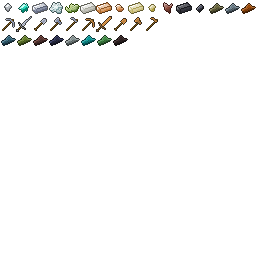
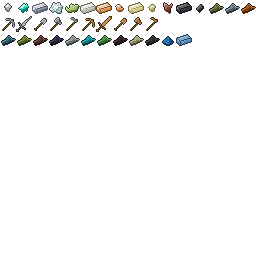
Retextured the Alloy Inductor and added a new light-producing Nether material.

Changed region(s): [[0.5, 0.125, 0.75, 0.1875]]

diff --git a/source/com/voidzm/supercraft/util/EssentialReducerRecipes.java b/source/com/voidzm/supercraft/util/EssentialReducerRecipes.java
@@ -12,7 +12,7 @@ import com.voidzm.supercraft.handler.ItemHandler;
 public class EssentialReducerRecipes {
 
 	public enum EssentialAspect {
-		TERRAEN(0), AERONIC(1), INFERNAL(2), AQUAEOUS(3), VERDEAL(4), NETHEREAL(5), DRACONIC(6), FERRIC(7), RADANTIS(8), VIDALIS(9), MORTALIC(10);
+		TERRAEN(0), AERONIC(1), INFERNAL(2), AQUAEOUS(3), VERDEAL(4), NETHEREAL(5), DRACONIC(6), FERRIC(7), RADANTIS(8), VIDALIS(9), MORTALIC(10), LUXORUM(11), TENEBRA(12);
 		public int index;
 		private EssentialAspect(int var1) {
 			this.index = var1;
@@ -43,7 +43,7 @@ public class EssentialReducerRecipes {
 		inputMappings.add(new EssentialReducerInputMap(new ItemStack(Item.clay), EssentialAspect.TERRAEN, EssentialAspect.VERDEAL));
 		inputMappings.add(new EssentialReducerInputMap(new ItemStack(Item.reed), EssentialAspect.VIDALIS, EssentialAspect.VERDEAL));
 		inputMappings.add(new EssentialReducerInputMap(new ItemStack(Item.egg), EssentialAspect.VERDEAL, EssentialAspect.VIDALIS));
-		inputMappings.add(new EssentialReducerInputMap(new ItemStack(Item.lightStoneDust), EssentialAspect.NETHEREAL, EssentialAspect.RADANTIS));
+		inputMappings.add(new EssentialReducerInputMap(new ItemStack(Item.lightStoneDust), EssentialAspect.LUXORUM, EssentialAspect.NETHEREAL));
 		inputMappings.add(new EssentialReducerInputMap(new ItemStack(Item.sugar), EssentialAspect.VERDEAL, EssentialAspect.VIDALIS));
 		inputMappings.add(new EssentialReducerInputMap(new ItemStack(Item.pumpkinSeeds), EssentialAspect.VIDALIS, EssentialAspect.VERDEAL));
 		inputMappings.add(new EssentialReducerInputMap(new ItemStack(Item.melonSeeds), EssentialAspect.VIDALIS, EssentialAspect.VERDEAL));
@@ -62,8 +62,8 @@ public class EssentialReducerRecipes {
 		inputMappings.add(new EssentialReducerInputMap(new ItemStack(ItemHandler.electrumIngot), EssentialAspect.FERRIC, EssentialAspect.TERRAEN));
 		inputMappings.add(new EssentialReducerInputMap(new ItemStack(ItemHandler.electrumBit), EssentialAspect.FERRIC, EssentialAspect.TERRAEN));
 		inputMappings.add(new EssentialReducerInputMap(new ItemStack(ItemHandler.bloodAmber), EssentialAspect.MORTALIC, EssentialAspect.VERDEAL));
-		inputMappings.add(new EssentialReducerInputMap(new ItemStack(ItemHandler.nisilIngot), EssentialAspect.MORTALIC, EssentialAspect.TERRAEN));
-		inputMappings.add(new EssentialReducerInputMap(new ItemStack(ItemHandler.nisilShard), EssentialAspect.MORTALIC, EssentialAspect.TERRAEN));
+		inputMappings.add(new EssentialReducerInputMap(new ItemStack(ItemHandler.nisilIngot), EssentialAspect.TENEBRA, EssentialAspect.TERRAEN));
+		inputMappings.add(new EssentialReducerInputMap(new ItemStack(ItemHandler.nisilShard), EssentialAspect.TENEBRA, EssentialAspect.TERRAEN));
 		inputMappings.add(new EssentialReducerInputMap(new ItemStack(Item.redstone), EssentialAspect.RADANTIS, EssentialAspect.TERRAEN));
 		inputMappings.add(new EssentialReducerInputMap(new ItemStack(Item.snowball), EssentialAspect.VERDEAL, EssentialAspect.AERONIC));
 		inputMappings.add(new EssentialReducerInputMap(new ItemStack(Item.paper), EssentialAspect.VERDEAL, EssentialAspect.AERONIC));

diff --git a/source/com/voidzm/supercraft/handler/BlockHandler.java b/source/com/voidzm/supercraft/handler/BlockHandler.java
@@ -112,6 +112,9 @@ public class BlockHandler {
 	public static Block radiantSolarGenerator;
 	public static Block alloyInductor;
 	
+	public static Block cobaltOre;
+	public static Block cobaltTorch;
+	
 	public void populateAllAndInitialize() {
 		this.createBlocks();
 		this.populateLanguage();
@@ -277,6 +280,11 @@ public class BlockHandler {
 		languageHandler.add(radiantSolarGenerator, "Radiant Solar Generator");
 		languageHandler.add(alloyInductor, "Alloy Inductor");
 		
+		// Cobalt
+		
+		languageHandler.add(cobaltOre, "Cobalt Ore");
+		languageHandler.add(cobaltTorch, "Cobalt Torch");
+		
 	}
 	
 	private void createBlocks() {
@@ -394,6 +402,11 @@ public class BlockHandler {
 		radiantSolarGenerator = new BlockRadiantSolarGenerator(1659);
 		alloyInductor = new BlockAlloyInductor(1660);
 		
+		// Cobalt
+		
+		cobaltOre = new BlockCobaltOre(1661);
+		cobaltTorch = new BlockCobaltTorch(1662);
+		
 	}
 	
 	private void registerBlocks() {
@@ -510,6 +523,11 @@ public class BlockHandler {
 		GameRegistry.registerBlock(copperboundStone, "copperboundStone");
 		GameRegistry.registerBlock(radiantSolarGenerator, "radiantSolarGenerator");
 		GameRegistry.registerBlock(alloyInductor, "alloyInductor");
+		
+		// Cobalt
+		
+		GameRegistry.registerBlock(cobaltOre, "cobaltOre");
+		GameRegistry.registerBlock(cobaltTorch, "cobaltTorch");
 		
 	}
 	
@@ -672,6 +690,11 @@ public class BlockHandler {
 		LanguageRegistry.addName(copperboundStone, (String)this.languageHandler.getString(copperboundStone));
 		LanguageRegistry.addName(radiantSolarGenerator, (String)this.languageHandler.getString(radiantSolarGenerator));
 		LanguageRegistry.addName(alloyInductor, (String)this.languageHandler.getString(alloyInductor));
+		
+		// Cobalt
+		
+		LanguageRegistry.addName(cobaltOre, (String)this.languageHandler.getString(cobaltOre));
+		LanguageRegistry.addName(cobaltTorch, (String)this.languageHandler.getString(cobaltTorch));
 		
 	}
 	

diff --git a/source/com/voidzm/supercraft/handler/CraftingHandler.java b/source/com/voidzm/supercraft/handler/CraftingHandler.java
@@ -82,6 +82,7 @@ public class CraftingHandler {
 	private ItemStack copperboundStone;
 	private ItemStack aeronicEssence;
 	private ItemStack radantisEssence;
+	private ItemStack cobaltDust;
 	
 	public void populateAllAndInitialize() {
 		this.initializeCraftingRefs();
@@ -151,6 +152,7 @@ public class CraftingHandler {
 		copperboundStone = new ItemStack(BlockHandler.copperboundStone);
 		aeronicEssence = new ItemStack(ItemHandler.essence, 1, EssentialAspect.AERONIC.index);
 		radantisEssence = new ItemStack(ItemHandler.essence, 1, EssentialAspect.RADANTIS.index);
+		cobaltDust = new ItemStack(ItemHandler.cobaltDust);
 	}
 	
 	private void addRecipes() {
@@ -263,6 +265,10 @@ public class CraftingHandler {
 		GameRegistry.addRecipe(new ItemStack(BlockHandler.essentialReducer), "aba", "cdc", "aaa", 'a', ironboundStone, 'b', flint, 'c', elinvarDust, 'd', diamond);
 		GameRegistry.addRecipe(new ItemStack(BlockHandler.copperboundStone), "a a", " b ", "a a", 'a', copperChunk, 'b', stone);
 		GameRegistry.addRecipe(new ItemStack(BlockHandler.radiantSolarGenerator), "aba", "cdc", "eee", 'a', aeronicEssence, 'b', radantisEssence, 'c', obsidian, 'd', copper, 'e', copperboundStone);
+		
+		// Cobalt
+		
+		GameRegistry.addRecipe(new ItemStack(BlockHandler.cobaltTorch, 4), "a", "b", 'a', cobaltDust, 'b', stick);
 		
 	}
 	

diff --git a/source/com/voidzm/supercraft/block/BlockCobaltOre.java b/source/com/voidzm/supercraft/block/BlockCobaltOre.java
@@ -1,0 +1,47 @@
+//////////////////////////////////////
+//*       BlockCobaltOre.java      *//
+//*           Supercraft           *//
+//*        (c) voidzm 2013         *//
+//////////////////////////////////////
+
+package com.voidzm.supercraft.block;
+
+import java.util.Random;
+
+import com.voidzm.supercraft.CommonProxy;
+import com.voidzm.supercraft.handler.ItemHandler;
+
+import net.minecraft.block.BlockOre;
+import net.minecraft.creativetab.CreativeTabs;
+import net.minecraft.item.ItemStack;
+
+public class BlockCobaltOre extends BlockOre {
+
+	public BlockCobaltOre(int par1) {
+		super(par1, 130);
+		this.setHardness(1.0F);
+		this.setResistance(3.0F);
+		this.setStepSound(soundStoneFootstep);
+		this.setCreativeTab(CreativeTabs.tabBlock);
+		this.setBlockName("cobaltOre");
+	}
+	
+	@Override
+	public String getTextureFile() {
+		return CommonProxy.BLOCKS_PNG;
+	}
+	
+	@Override
+	public int idDropped(int par1, Random par2Random, int par3) {
+		return ItemHandler.cobaltDust.itemID;
+	}
+	
+	public int quantityDropped(Random par1Random) {
+		return par1Random.nextInt(4)+1;
+	}
+	
+	public int quantityDroppedWithBonus(int par1, Random par2Random) {
+		return this.quantityDropped(par2Random) + par2Random.nextInt(par1+1);
+	}
+	
+}

diff --git a/source/com/voidzm/supercraft/handler/ItemHandler.java b/source/com/voidzm/supercraft/handler/ItemHandler.java
@@ -57,6 +57,8 @@ public class ItemHandler {
 	
 	public static Item essence;
 	
+	public static Item cobaltDust;
+	
 	public void populateAllAndInitialize() {
 		this.createItems();
 		this.populateLanguage();
@@ -131,7 +133,11 @@ public class ItemHandler {
 		essenceList.add("Radantis Essence");
 		essenceList.add("Vidalis Essence");
 		essenceList.add("Mortalic Essence");
+		essenceList.add("Luxorum Essence");
+		essenceList.add("Tenebra Essence");
 		languageHandler.add(essence, essenceList);
+		
+		languageHandler.add(cobaltDust, "Cobalt Dust");
 		
 	}
 	
@@ -191,6 +197,10 @@ public class ItemHandler {
 		
 		essence = new ItemEssence(23023);
 		
+		// Cobalt
+		
+		cobaltDust = new ItemCobaltDust(23024);
+		
 	}
 	
 	private void registerItems() {
@@ -248,6 +258,10 @@ public class ItemHandler {
 		// Essence
 		
 		GameRegistry.registerItem(essence, "essence");
+		
+		// Cobalt
+		
+		GameRegistry.registerItem(cobaltDust, "cobaltDust");
 				
 	}
 	
@@ -311,6 +325,10 @@ public class ItemHandler {
 			LanguageRegistry.addName(stack, string);
 			i++;
 		}
+		
+		// Cobalt
+		
+		LanguageRegistry.addName(cobaltDust, (String)this.languageHandler.getString(cobaltDust));
 		
 	}
 	

diff --git a/source/com/voidzm/supercraft/block/BlockCobaltTorch.java b/source/com/voidzm/supercraft/block/BlockCobaltTorch.java
@@ -1,0 +1,32 @@
+package com.voidzm.supercraft.block;
+
+import java.util.Random;
+
+import com.voidzm.supercraft.CommonProxy;
+
+import cpw.mods.fml.relauncher.Side;
+import cpw.mods.fml.relauncher.SideOnly;
+import net.minecraft.block.BlockTorch;
+import net.minecraft.world.World;
+
+public class BlockCobaltTorch extends BlockTorch {
+
+	public BlockCobaltTorch(int par1) {
+		super(par1, 132);
+		this.setHardness(0.0F);
+		this.setLightValue(1.0F);
+		this.setStepSound(soundWoodFootstep);
+		this.setBlockName("cobaltTorch");
+		this.setRequiresSelfNotify();
+	}
+	
+	@Override
+	public String getTextureFile() {
+		return CommonProxy.BLOCKS_PNG;
+	}
+	
+	@Override
+	@SideOnly(Side.CLIENT)
+	public void randomDisplayTick(World par1World, int par2, int par3, int par4, Random par5Random) {}
+
+}

diff --git a/source/com/voidzm/supercraft/item/ItemCobaltDust.java b/source/com/voidzm/supercraft/item/ItemCobaltDust.java
@@ -1,0 +1,31 @@
+//////////////////////////////////////
+//*       ItemCobaltDust.java      *//
+//*           Supercraft           *//
+//*        (c) voidzm 2013         *//
+//////////////////////////////////////
+
+package com.voidzm.supercraft.item;
+
+import net.minecraft.creativetab.CreativeTabs;
+import net.minecraft.item.Item;
+import net.minecraft.item.ItemStack;
+
+import com.voidzm.supercraft.CommonProxy;
+import com.voidzm.supercraft.Supercraft;
+
+public class ItemCobaltDust extends Item {
+
+	public ItemCobaltDust(int id) {
+		super(id);
+		this.setMaxStackSize(64);
+		this.setCreativeTab(CreativeTabs.tabMaterials);
+		this.setIconIndex(42);
+		this.setItemName("cobaltDust");
+	}
+	
+	@Override
+	public String getTextureFile() {
+		return CommonProxy.ITEMS_PNG;
+	}
+	
+}

diff --git a/source/com/voidzm/supercraft/gen/WorldGenOre.java b/source/com/voidzm/supercraft/gen/WorldGenOre.java
@@ -34,12 +34,19 @@ public class WorldGenOre implements IWorldGenerator {
 	}
 
 	private void generateNether(World world, Random rand, int cx, int cz) {
-		int ky = 104;
+		int ky = 104; // Elinvar
 		for(int i = 0; i < 2; i++) {
 			int rx = (cx * 16) + rand.nextInt(16);
 			int ry = ky + rand.nextInt(24);
 			int rz = (cz * 16) + rand.nextInt(16);
 			new SCWorldGenMinable(BlockHandler.elinvarOre.blockID, 16).generate(world, rand, rx, ry, rz);
+		}
+		ky = 0; // Cobalt
+		for(int i = 0; i < 8; i++) {
+			int rx = (cx * 16) + rand.nextInt(16);
+			int ry = ky + rand.nextInt(24);
+			int rz = (cz * 16) + rand.nextInt(16);
+			new SCWorldGenMinable(BlockHandler.cobaltOre.blockID, 4).generate(world, rand, rx, ry, rz);
 		}
 	}
 	

diff --git a/source/com/voidzm/supercraft/block/BlockAlloyInductor.java b/source/com/voidzm/supercraft/block/BlockAlloyInductor.java
@@ -24,7 +24,7 @@ public class BlockAlloyInductor extends BlockContainer {
 		this.setHardness(3.0F);
 		this.setResistance(15.0F);
 		this.setStepSound(soundStoneFootstep);
-		this.setBlockName("essentialReducer");
+		this.setBlockName("alloyInductor");
 		this.setCreativeTab(Supercraft.elinvarTab);
 	}
 	
@@ -96,9 +96,9 @@ public class BlockAlloyInductor extends BlockContainer {
 	}
 	
 	public int getBlockTextureFromSideAndMetadata(int side, int meta) {
-		if(side == 0) return 122;
-		else if(side == 1) return 120;
-		else return 121;
+		if(side == 0) return 129;
+		else if(side == 1) return 127;
+		else return 128;
 	}
 	
 }

diff --git a/source/com/voidzm/supercraft/item/ItemEssence.java b/source/com/voidzm/supercraft/item/ItemEssence.java
@@ -14,7 +14,7 @@ import net.minecraft.item.ItemStack;
 
 public class ItemEssence extends Item {
 
-	private final static String[] names = {"terraen", "aeronic", "infernal", "aquaeous", "verdeal", "nethereal", "draconic", "ferric", "radantis", "vidalis", "mortalic"};
+	private final static String[] names = {"terraen", "aeronic", "infernal", "aquaeous", "verdeal", "nethereal", "draconic", "ferric", "radantis", "vidalis", "mortalic", "luxorum", "tenebra"};
 	
 	public ItemEssence(int par1) {
 		super(par1);
